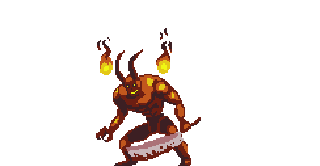
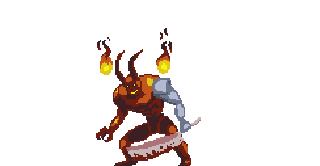
do several stuff
- update demon sprite

- add pullgun to pull things closer

Changed region(s): [[0.4688, 0.4518, 0.625, 0.8133]]

diff --git a/scene/system/attack/pullguncaster.go b/scene/system/attack/pullguncaster.go
@@ -13,7 +13,7 @@ import (
 )
 
 // cost 1 EN and cast hitscan bullet
-type PushgunCaster struct {
+type PullgunCaster struct {
 	Cost         int
 	Damage       int
 	nextCooldown time.Time
@@ -22,10 +22,10 @@ type PushgunCaster struct {
 	OnHit        component.OnAtkHit
 }
 
-func (l *PushgunCaster) GetModifierEntry() *loadout.CasterModifierData {
+func (l *PullgunCaster) GetModifierEntry() *loadout.CasterModifierData {
 	return l.ModEntry
 }
-func (l *PushgunCaster) SetModifier(e *loadout.CasterModifierData) {
+func (l *PullgunCaster) SetModifier(e *loadout.CasterModifierData) {
 	if l.ModEntry != e && e.OnHit != nil {
 		if l.OnHit == nil {
 			l.OnHit = e.OnHit
@@ -35,37 +35,35 @@ func (l *PushgunCaster) SetModifier(e *loadout.CasterModifierData) {
 	}
 	l.ModEntry = e
 }
-func NewPushgunCaster() *PushgunCaster {
-	return &PushgunCaster{Cost: 100, nextCooldown: time.Now(), Damage: 50, CoolDown: 3 * time.Second, OnHit: PushbackOnHit}
+func NewPullgunCaster() *PushgunCaster {
+	return &PushgunCaster{Cost: 100, nextCooldown: time.Now(), Damage: 50, CoolDown: 3 * time.Second, OnHit: PullbackOnHit}
 }
-func PushbackOnHit(ecs *ecs.ECS, projectile, receiver *donburi.Entry) {
+func PullbackOnHit(ecs *ecs.ECS, projectile, receiver *donburi.Entry) {
 	damage := component.Damage.Get(projectile).Damage
 	component.Health.Get(receiver).HP -= damage
 	if receiver.HasComponent(component.GridPos) {
 		receiverPos := component.GridPos.Get(receiver)
-		if receiverPos.Col < 7 && validMove(ecs, receiverPos.Row, receiverPos.Col+1) {
-			receiverPos.Col += 1
-			scrPos := component.ScreenPos.Get(receiver)
-			scrPos.X = 0
-			scrPos.Y = 0
-		}
+		receiverPos.Col -= 1
+		scrPos := component.ScreenPos.Get(receiver)
+		scrPos.X = 0
+		scrPos.Y = 0
 	}
 	ecs.World.Remove(projectile.Entity())
 }
-func (l *PushgunCaster) GetDescription() string {
-	return fmt.Sprintf("Cost:%d EN\n%d Damage 1 target on front and Push it behind.\nCooldown %.1fs", l.Cost/100, l.GetDamage(), l.GetCooldownDuration().Seconds())
+func (l *PullgunCaster) GetDescription() string {
+	return fmt.Sprintf("Cost:%d EN\n%d Damage 1 target on front and Pull it.\nCooldown %.1fs", l.Cost/100, l.GetDamage(), l.GetCooldownDuration().Seconds())
 }
-func (l *PushgunCaster) GetName() string {
-	return "Pushgun"
+func (l *PullgunCaster) GetName() string {
+	return "Pullgun"
 }
-func (l *PushgunCaster) GetDamage() int {
+func (l *PullgunCaster) GetDamage() int {
 	if l.ModEntry != nil {
 		// mod := component.CasterModifier.Get(l.ModEntry)
 		return l.Damage + l.ModEntry.DamageModifier
 	}
 	return l.Damage
 }
-func (l *PushgunCaster) GetCost() int {
+func (l *PullgunCaster) GetCost() int {
 	if l.ModEntry != nil {
 		// mod := component.CasterModifier.Get(l.ModEntry)
 		if l.Cost+l.ModEntry.CostModifier < 0 {
@@ -75,23 +73,23 @@ func (l *PushgunCaster) GetCost() int {
 	}
 	return l.Cost
 }
-func (l *PushgunCaster) GetIcon() *ebiten.Image {
-	return assets.PushgunIcon
+func (l *PullgunCaster) GetIcon() *ebiten.Image {
+	return assets.PullgunIcon
 }
-func (l *PushgunCaster) GetCooldown() time.Time {
+func (l *PullgunCaster) GetCooldown() time.Time {
 	return l.nextCooldown
 }
-func (l *PushgunCaster) GetCooldownDuration() time.Duration {
+func (l *PullgunCaster) GetCooldownDuration() time.Duration {
 	if l.ModEntry != nil {
 		// mod := component.CasterModifier.Get(l.ModEntry)
 		return l.CoolDown + l.ModEntry.CooldownModifer
 	}
 	return l.CoolDown
 }
-func (l *PushgunCaster) ResetCooldown() {
+func (l *PullgunCaster) ResetCooldown() {
 	l.nextCooldown = time.Now()
 }
-func (l *PushgunCaster) Cast(ensource loadout.ENSetGetter, ecs *ecs.ECS) {
+func (l *PullgunCaster) Cast(ensource loadout.ENSetGetter, ecs *ecs.ECS) {
 	en := ensource.GetEn()
 	if en >= l.GetCost() {
 		ensource.SetEn(en - l.GetCost())

diff --git a/scene/assets/asset.go b/scene/assets/asset.go
@@ -225,6 +225,9 @@ var chargeshot_icon []byte
 //go:embed images/icon_battle.png
 var battle_icon []byte
 
+//go:embed images/icon_pullgun.png
+var pullgun_icon []byte
+
 //go:embed images/icon_rest.png
 var rest_icon []byte
 
@@ -281,6 +284,7 @@ var ShotgunIcon *ebiten.Image
 var FlamethrowerIcon *ebiten.Image
 var IcespikeIcon *ebiten.Image
 var PushgunIcon *ebiten.Image
+var PullgunIcon *ebiten.Image
 var NAIcon *ebiten.Image
 var WallIcon *ebiten.Image
 var BattleIcon *ebiten.Image
@@ -595,6 +599,10 @@ func init() {
 	if BattleIcon == nil {
 		imgReader := bytes.NewReader(battle_icon)
 		BattleIcon, _, _ = ebitenutil.NewImageFromReader(imgReader)
+	}
+	if PullgunIcon == nil {
+		imgReader := bytes.NewReader(pullgun_icon)
+		PullgunIcon, _, _ = ebitenutil.NewImageFromReader(imgReader)
 	}
 	if ChargeshotIcon == nil {
 		imgReader := bytes.NewReader(chargeshot_icon)

diff --git a/scene/castergenerator.go b/scene/castergenerator.go
@@ -51,6 +51,7 @@ func GenerateTrieReward() (ItemInterface, ItemInterface, ItemInterface) {
 		attack.NewBombConstructCaster(),
 		attack.NewAtkBonusCaster(),
 		attack.NewPushgunCaster(),
+		attack.NewPullgunCaster(),
 		attack.NewChargeshotCaster(),
 		attack.NewBambooLanceCaster(),
 		attack.NewSporeBombCaster(),
